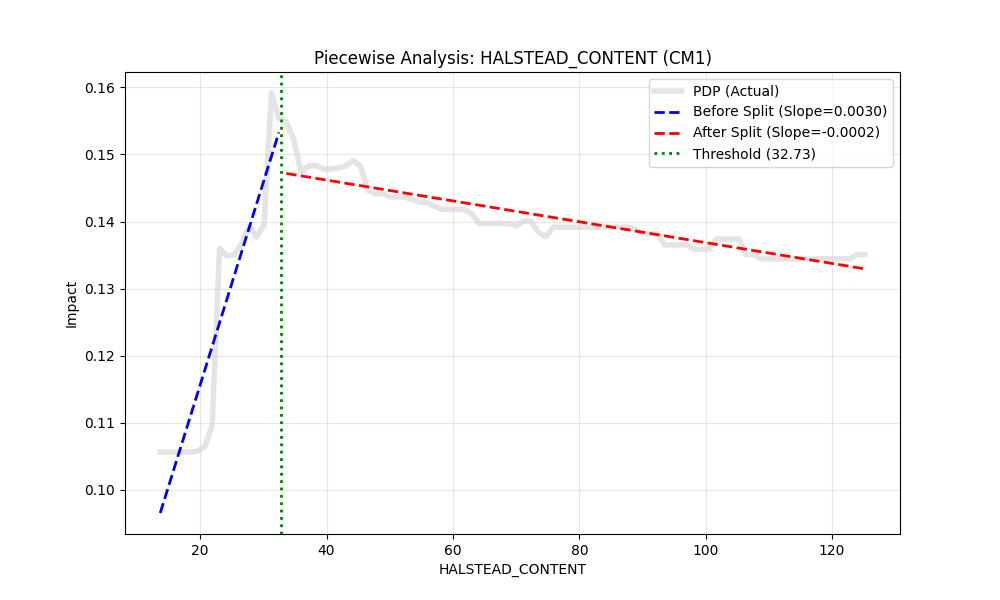
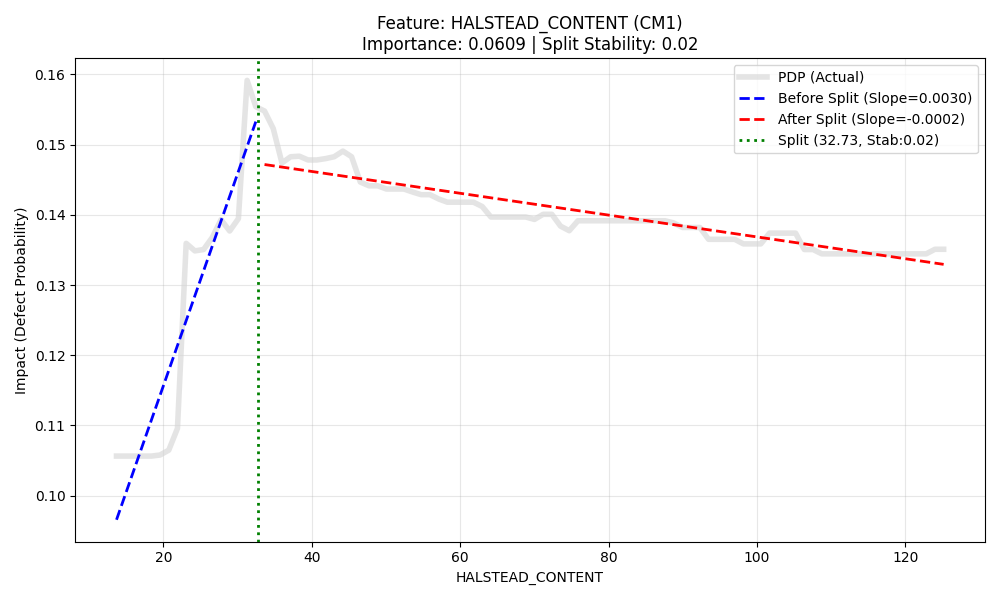
fix:feature importance

diff --git a/classifiers/chirps_quant.py b/classifiers/chirps_quant.py
@@ -15,12 +15,14 @@ from util import load_data
 
 warnings.filterwarnings("ignore")
 
+
+
 DATASET_NAMES = ['CM1', 'JM1', 'KC1'] 
 
 def get_primary_chirps_threshold(model, feature_idx):
     """
-    [CHIRPS] 가장 강력한 분기점(Primary Threshold) 하나만 찾습니다.
-    분기점 전후를 나누는 기준이 됩니다.
+    [CHIRPS Logic]
+    가장 강력한 분기점(Primary Threshold)과 그 지점의 안정성(Stability/Density)을 반환합니다.
     """
     thresholds = []
     for estimator in model.estimators_:
@@ -30,10 +32,12 @@ def get_primary_chirps_threshold(model, feature_idx):
         mask = feature_indices == feature_idx
         thresholds.extend(threshold_values[mask])
     
+    # 데이터가 너무 적으면 분기점 없음
     if len(thresholds) < 10:
-        return None
+        return None, 0.0
 
     try:
+        # KDE로 밀도 추정
         density = gaussian_kde(thresholds, bw_method='silverman')
         min_th, max_th = np.percentile(thresholds, [1, 99])
         xs = np.linspace(min_th, max_th, 200)
@@ -41,51 +45,50 @@ def get_primary_chirps_threshold(model, feature_idx):
         
         peaks, _ = find_peaks(ys)
         if len(peaks) == 0:
-            return None
+            return None, 0.0
 
-        # 가장 높은 Peak 하나를 반환
-        peak_xs = xs[peaks]
-        peak_ys = ys[peaks]
-        best_idx = np.argmax(peak_ys)
-        return peak_xs[best_idx]
+        # 가장 높은 Peak(가장 빈번한 합의점) 하나를 반환
+        best_idx = np.argmax(ys[peaks])
+        peak_idx = peaks[best_idx]
+        
+        split_point = xs[peak_idx]
+        stability_score = ys[peak_idx] # 밀도 높이 (=Stability 대용)
+        
+        return split_point, stability_score
         
     except Exception:
-        return None
+        return None, 0.0
 
 def fit_piecewise_linear(pdp_x, pdp_y, split_point):
     """
     [구간 선형 회귀]
-    split_point(분기점)를 기준으로 데이터를 두 쪽(Left, Right)으로 나누고,
-    각각 선형 회귀를 수행하여 기울기 2개를 구합니다.
     """
-    # 1. 분기점이 유효한지 확인 (데이터 범위 내에 있는지)
+    # 1. 분기점이 유효한지 확인
     if split_point is None or split_point <= pdp_x.min() or split_point >= pdp_x.max():
-        # 분기점이 없으면 전체를 하나로 피팅 (Global Slope)
         lr = LinearRegression()
         lr.fit(pdp_x.reshape(-1, 1), pdp_y)
         return [(pdp_x, lr.predict(pdp_x.reshape(-1, 1)), lr.coef_[0])], "Linear"
 
-    # 2. 데이터 분할 (Left / Right)
+    # 2. 데이터 분할
     mask_left = pdp_x <= split_point
     mask_right = pdp_x > split_point
     
-    # 데이터가 너무 적으면 분할 취소
     if np.sum(mask_left) < 2 or np.sum(mask_right) < 2:
         lr = LinearRegression()
         lr.fit(pdp_x.reshape(-1, 1), pdp_y)
-        return [(pdp_x, lr.predict(pdp_x.reshape(-1, 1)), lr.coef_[0])], "Linear (Not enough split data)"
+        return [(pdp_x, lr.predict(pdp_x.reshape(-1, 1)), lr.coef_[0])], "Linear (Not enough data)"
 
     # 3. 각각 피팅
     fits = []
     
-    # Left Segment
+    # Left
     x_left = pdp_x[mask_left].reshape(-1, 1)
     y_left = pdp_y[mask_left]
     lr_left = LinearRegression()
     lr_left.fit(x_left, y_left)
     fits.append((pdp_x[mask_left], lr_left.predict(x_left), lr_left.coef_[0]))
     
-    # Right Segment
+    # Right
     x_right = pdp_x[mask_right].reshape(-1, 1)
     y_right = pdp_y[mask_right]
     lr_right = LinearRegression()
@@ -94,25 +97,21 @@ def fit_piecewise_linear(pdp_x, pdp_y, split_point):
     
     return fits, "Piecewise"
 
-def save_piecewise_plot(pdp_x, pdp_y, fits, split_point, feature_name, dataset_name, save_dir):
+def save_piecewise_plot(pdp_x, pdp_y, fits, split_point, stability, importance, feature_name, dataset_name, save_dir):
     plt.figure(figsize=(10, 6))
     
     # 아웃라이어 제거 (시각화용)
     limit_idx = int(len(pdp_x) * 0.95)
     x_vis_max = pdp_x[limit_idx]
     
-    # PDP 원본 그리기
     mask_vis = pdp_x <= x_vis_max
     plt.plot(pdp_x[mask_vis], pdp_y[mask_vis], label='PDP (Actual)', color='lightgray', linewidth=4, alpha=0.6)
     
-    # 구간별 피팅 라인 그리기
     colors = ['blue', 'red']
     labels = ['Before Split', 'After Split']
-    
     slopes = []
     
     for i, (x_seg, y_pred, slope) in enumerate(fits):
-        # 시각화 범위 내 데이터만 플롯
         mask_seg = x_seg <= x_vis_max
         if np.sum(mask_seg) > 0:
             plt.plot(x_seg[mask_seg], y_pred[mask_seg], 
@@ -120,15 +119,19 @@ def save_piecewise_plot(pdp_x, pdp_y, fits, split_point, feature_name, dataset_n
                      color=colors[i], linestyle='--', linewidth=2)
         slopes.append(slope)
 
-    # 분기점 표시
     if split_point and split_point <= x_vis_max:
-        plt.axvline(x=split_point, color='green', linestyle=':', linewidth=2, label=f'Threshold ({split_point:.2f})')
+        plt.axvline(x=split_point, color='green', linestyle=':', linewidth=2, 
+                    label=f'Split ({split_point:.2f}, Stab:{stability:.2f})')
 
     plt.legend()
-    plt.title(f"Piecewise Analysis: {feature_name} ({dataset_name})")
+    # 제목에 중요도와 안정성 표시
+    title_str = (f"Feature: {feature_name} ({dataset_name})\n"
+                 f"Importance: {importance:.4f} | Split Stability: {stability:.2f}")
+    plt.title(title_str)
     plt.xlabel(f"{feature_name}")
-    plt.ylabel("Impact")
+    plt.ylabel("Impact (Defect Probability)")
     plt.grid(True, alpha=0.3)
+    plt.tight_layout()
     
     filename = f"{dataset_name}_{feature_name}_piecewise.png".replace(" ", "_").replace("/", "_")
     plt.savefig(os.path.join(save_dir, filename))
@@ -137,7 +140,7 @@ def save_piecewise_plot(pdp_x, pdp_y, fits, split_point, feature_name, dataset_n
     return slopes
 
 def analyze_dataset_piecewise(dataset_name):
-    print(f"\n🚀 Analyzing Dataset (Piecewise): {dataset_name}")
+    print(f"\n🚀 Analyzing Dataset (Piecewise + Metrics): {dataset_name}")
     X_train, y_train, X_test, y_test = load_data(dataset_name, data_type='rf')
     
     if X_train is None:
@@ -147,8 +150,11 @@ def analyze_dataset_piecewise(dataset_name):
     model.fit(X_train, y_train)
     
     feature_names = X_train.columns.tolist()
+    
+    # Feature Importance 가져오기
     importances = model.feature_importances_
-    indices = np.argsort(importances)[::-1][:5] # Top 5 Features
+    # 중요도 순으로 정렬된 인덱스
+    indices = np.argsort(importances)[::-1][:5] 
     
     save_dir = f"analysis_results/Piecewise/{dataset_name}"
     os.makedirs(save_dir, exist_ok=True)
@@ -157,43 +163,47 @@ def analyze_dataset_piecewise(dataset_name):
 
     for idx in indices:
         f_name = feature_names[idx]
+        imp_val = importances[idx]  # [추가] 중요도 값
         
         # 1. PDP 생성
         pdp_results = partial_dependence(model, X_train, features=[idx], grid_resolution=100)
         pdp_x = pdp_results['grid_values'][0]
         pdp_y = pdp_results['average'][0]
         
-        # 2. CHIRPS 분기점 찾기
-        split_point = get_primary_chirps_threshold(model, idx)
+        # 2. CHIRPS 분기점 및 안정성 찾기 [수정]
+        split_point, stability = get_primary_chirps_threshold(model, idx)
         
-        # 3. 구간별 피팅 (핵심 로직 변경됨)
+        # 3. 구간별 피팅
         fits, fit_type = fit_piecewise_linear(pdp_x, pdp_y, split_point)
         
-        # 4. 시각화 및 기울기 추출
-        slopes = save_piecewise_plot(pdp_x, pdp_y, fits, split_point, f_name, dataset_name, save_dir)
+        # 4. 시각화 (중요도/안정성 정보 전달) [수정]
+        slopes = save_piecewise_plot(pdp_x, pdp_y, fits, split_point, stability, imp_val, f_name, dataset_name, save_dir)
         
-        # 5. 수식 텍스트 생성 (엑셀용)
+        # 5. 수식 텍스트 생성
         if fit_type == "Piecewise":
             slope_before = slopes[0]
             slope_after = slopes[1]
             formula_str = (f"IF({f_name} <= {split_point:.2f}, "
                            f"{slope_before:.3f} * {f_name}, "
-                           f"{slope_after:.3f} * {f_name} + Offset)")
+                           f"{slope_after:.3f} * {f_name})")
         else:
             formula_str = f"{slopes[0]:.3f} * {f_name} (Linear)"
             
         formulas.append({
             'Feature': f_name,
+            'Importance': imp_val,       # [추가]
+            'Split_Stability': stability,# [추가]
             'Fit_Type': fit_type,
             'Split_Point': split_point if split_point else "N/A",
             'Slope_Before': slopes[0],
             'Slope_After': slopes[1] if len(slopes) > 1 else "N/A",
             'Formula': formula_str
         })
-        print(f"  - {f_name}: Type={fit_type}, Split={split_point}")
+        print(f"  - {f_name}: Imp={imp_val:.3f}, Stab={stability:.2f}, Type={fit_type}")
 
     # 결과 저장
-    pd.DataFrame(formulas).to_csv(os.path.join(save_dir, "piecewise_formulas.csv"), index=False)
+    pd.DataFrame(formulas).to_csv(os.path.join(save_dir, "piecewise_formulas_metrics.csv"), index=False)
+    print(f"💾 Results saved to {save_dir}/piecewise_formulas_metrics.csv")
 
 if __name__ == "__main__":
     if not os.path.exists("../data"):
@@ -204,3 +214,5 @@ if __name__ == "__main__":
             analyze_dataset_piecewise(name)
         except Exception as e:
             print(f"Error: {e}")
+            import traceback
+            traceback.print_exc()

diff --git a/classifiers/chirps_full.py b/classifiers/chirps_full.py
@@ -19,19 +19,6 @@ except ImportError:
 
 warnings.filterwarnings("ignore")
 
-# 한글 폰트 설정 (플롯용)
-def set_korean_font():
-    system_name = platform.system()
-    if system_name == 'Windows':
-        plt.rc('font', family='Malgun Gothic')
-    elif system_name == 'Darwin':
-        plt.rc('font', family='AppleGothic')
-    else:
-        plt.rc('font', family='NanumGothic')
-    plt.rcParams['axes.unicode_minus'] = False
-
-set_korean_font()
-
 DATASET_NAMES = ['CM1', 'JM1', 'KC1']
 
 class CHIRPSExplainerEnhanced:
